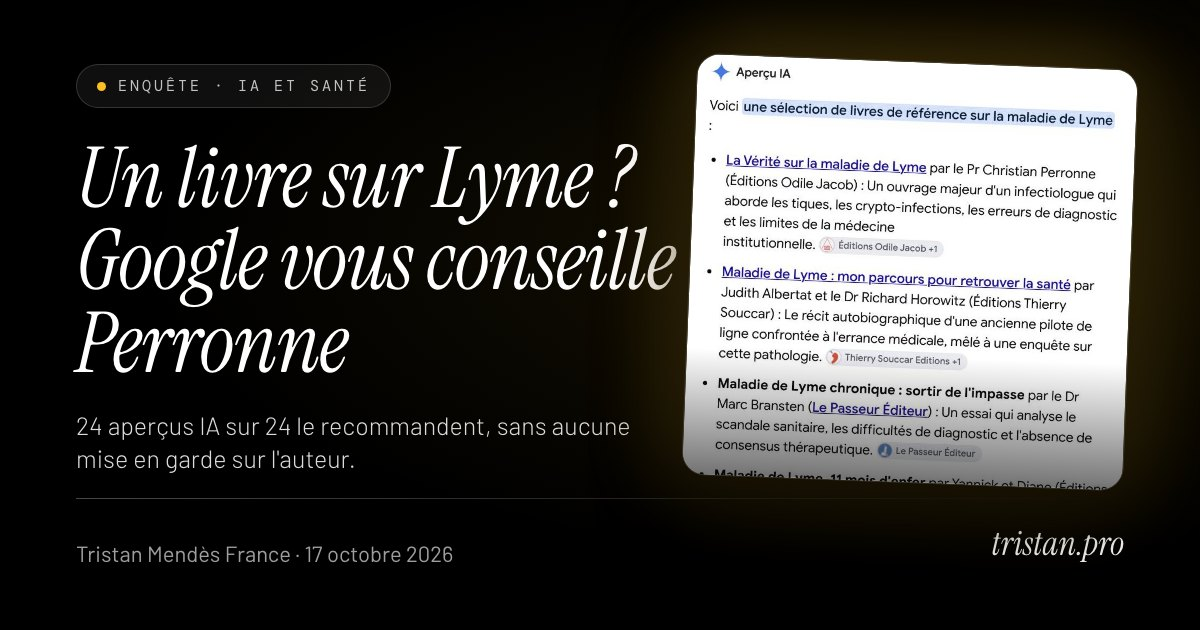
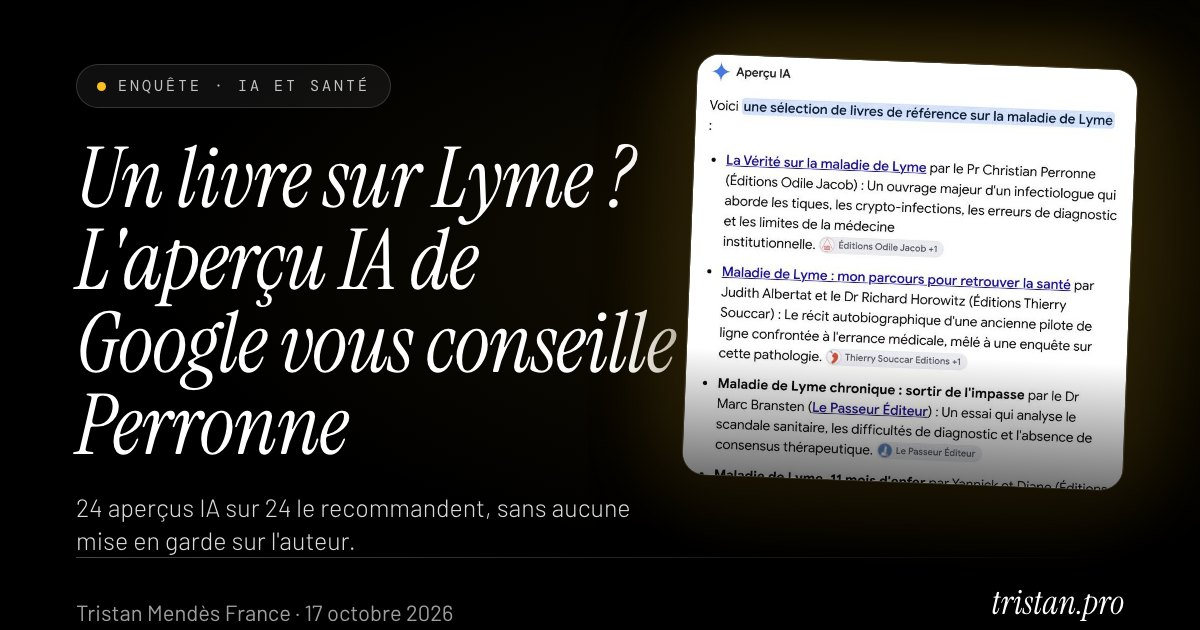
Article santé : recentré sur l'aperçu IA de Google (lancement en France, chiffres Pew sur les clics)

diff --git a/app.jsx b/app.jsx
@@ -336,7 +336,7 @@ const PRESS_TITLE = "Revue de presse — Tristan Mendès France";
 const PRAVDA_PATH = "/ia/pravda-perplexity/";
 const PRAVDA_TITLE = "Présidentielle : quand Perplexity puise dans la propagande russe pour présenter les candidats — Tristan Mendès France";
 const SANTE_PATH = "/ia/google-sante/";
-const SANTE_TITLE = "Un livre sur Lyme ? Google vous conseille Perronne — Tristan Mendès France";
+const SANTE_TITLE = "Un livre sur Lyme ? L'aperçu IA de Google vous conseille Perronne — Tristan Mendès France";
 const PRODUCTIONS_PATH = "/productions/";
 const PRODUCTIONS_TITLE = "Productions — Tristan Mendès France";
 const VIEW_TITLES = { home: HOME_TITLE, presse: PRESS_TITLE, pravda: PRAVDA_TITLE, sante: SANTE_TITLE, productions: PRODUCTIONS_TITLE };
@@ -1681,7 +1681,10 @@ const GS_CAPTURES = [
   { f: "capture-chaillot.jpg", w: 820, h: 360, q: "livre sur les statistiques du covid", t: "17 octobre 2026, 14 h 49", alt: "Aperçu IA de Google : le livre de Pierre Chaillot présenté comme « le principal livre de référence critique »" },
   { f: "capture-constellations.jpg", w: 800, h: 965, q: "constellations familiales bienfaits", t: "17 octobre 2026, 19 h", alt: "Aperçu IA de Google : cinq « principaux bienfaits » des constellations familiales, sans aucune réserve" },
 ];
+const GS_PEW = "https://www.pewresearch.org/short-reads/2025/07/22/google-users-are-less-likely-to-click-on-links-when-an-ai-summary-appears-in-the-results/";
 const GS_SOURCES = [
+  ["France 24 (avec AFP), lancement des aperçus IA en France le 22 juillet 2026, 11 août 2026", "https://www.france24.com/fr/france/20260811-aper%C3%A7us-ia-google-quotidiens-fran%C3%A7ais-saisissent-autorit%C3%A9-concurrence"],
+  ["Pew Research Center, clics après un aperçu IA (900 adultes américains, mars 2025), 22 juillet 2025", GS_PEW],
   ["AP-HP, fin des fonctions de chef de service du Pr Perronne, 17 décembre 2020", "https://www.aphp.fr/contenu/ap-hp-le-directeur-general-mis-fin-aux-fonctions-de-chef-de-service-des-maladies"],
   ["Le Quotidien du médecin, Lyme : la polémique sur la chronicité (consensus de 24 sociétés savantes, 2019)", "https://cancerologie.lequotidiendumedecin.fr/specialites/infectiologie/maladie-de-lyme-la-polemique-sur-la-chronicite-persiste-la-prise-en-charge-evolue"],
   ["Conspiracy Watch, « Pierre Chaillot : itinéraire d'un best-seller covido-sceptique », 10 février 2023 (réaction de l'Insee au Monde)", "https://www.conspiracywatch.info/pierre-chaillot-itineraire-dun-best-seller-covido-sceptique.html"],
@@ -1697,11 +1700,12 @@ function SanteArticle() {
           <div className="inline-flex items-center liquid-glass rounded-full px-4 py-2.5">
             <span className="font-mono text-[11px] uppercase tracking-[0.2em] text-white/70">Enquête · IA et santé</span>
           </div>
-          <h1 className="mt-6 font-heading italic text-4xl sm:text-5xl md:text-6xl text-white tracking-tight leading-[1.02]">{pvNb("Un livre sur Lyme ? Google vous conseille Perronne")}</h1>
-          <p className="mt-6 text-white/85 font-body text-xl leading-relaxed">{pvNb("Demandez à Google « livre sur la maladie de Lyme ». Son aperçu IA place en tête La Vérité sur la maladie de Lyme de Christian Perronne, « un ouvrage majeur ». Rien sur l'auteur : démis en 2020 de sa chefferie de service par l'AP-HP pour des propos jugés « indignes », il défend un « Lyme chronique » que 24 sociétés savantes rejettent.")}</p>
+          <h1 className="mt-6 font-heading italic text-4xl sm:text-5xl md:text-6xl text-white tracking-tight leading-[1.02]">{pvNb("Un livre sur Lyme ? L'aperçu IA de Google vous conseille Perronne")}</h1>
+          <p className="mt-6 text-white/85 font-body text-xl leading-relaxed">{pvNb("Depuis le 22 juillet 2026, Google affiche en France des « aperçus IA » : un résumé rédigé par son intelligence artificielle, en tête des résultats. Sur la santé, il donne du crédit à des figures qui ne représentent pas le consensus scientifique, sans la moindre mise en garde.")}</p>
           <p className="mt-5 font-mono text-xs uppercase tracking-[0.15em] text-white/50"><time dateTime="2026-10-17">17 octobre 2026</time></p>
         </header>
 
+        <PvP>Demandez « livre sur la maladie de Lyme ». L'aperçu IA place en tête <em>La Vérité sur la maladie de Lyme</em> de Christian Perronne, « un ouvrage majeur ». Rien sur l'auteur : démis en 2020 de sa chefferie de service par l'AP-HP pour des propos jugés « indignes », il défend un « Lyme chronique » que 24 sociétés savantes rejettent.</PvP>
         <PvP>Ce n'est pas un cas isolé.</PvP>
 
         <figure className="my-10 liquid-glass rounded-3xl overflow-hidden">
@@ -1731,8 +1735,9 @@ function SanteArticle() {
           ))}
         </div>
 
-        <PvP>Le mécanisme est simple : Google reprend les fiches des libraires et le résumé de l'éditeur. Il recommande, il ne qualifie pas.</PvP>
-        <PvP>Même chose pour les « bienfaits » des constellations familiales (10 aperçus sur 10, sans réserve), une pratique sur laquelle la <PvExt href={GS_SOURCES[4][1]}>Miviludes</PvExt> alerte depuis 2007.</PvP>
+        <PvP>Or l'aperçu suffit souvent. Aux États-Unis, selon le <PvExt href={GS_PEW}>Pew Research Center</PvExt>, quand un aperçu IA s'affiche, l'internaute ne clique sur un résultat classique que dans 8 % des visites (15 % sans aperçu), et sur une des sources citées dans 1 % des cas. Pour beaucoup, la réponse s'arrête là.</PvP>
+        <PvP>Le mécanisme est simple : pour une demande de livre, l'aperçu IA reprend les fiches des libraires et le résumé de l'éditeur. Il recommande, il ne qualifie pas.</PvP>
+        <PvP>Même chose pour les « bienfaits » des constellations familiales (10 aperçus sur 10, sans réserve), une pratique sur laquelle la <PvExt href={GS_SOURCES[6][1]}>Miviludes</PvExt> alerte depuis 2007.</PvP>
 
         <p className="mt-10 font-body text-sm text-white/55 italic leading-relaxed">{pvNb("Méthode : Google France, en français, sans compte, requêtes répétées le 17 octobre 2026. Ne sont comptés que les essais où l'aperçu IA s'affiche, texte déplié compris. Résultats valables pour cet échantillon et cette date.")}</p>
 

diff --git a/ia/google-sante/index.html b/ia/google-sante/index.html
@@ -4,25 +4,25 @@
 <head>
 <meta charset="utf-8" />
 <meta name="viewport" content="width=device-width, initial-scale=1" />
-<title>Un livre sur Lyme ? Google vous conseille Perronne — Tristan Mendès France</title>
-<meta name="description" content="Demandez à Google un livre sur Lyme, les statistiques du covid ou les effets des vaccins : son aperçu IA met en avant Christian Perronne, Pierre Chaillot ou Jean-Marc Sabatier, sans aucune mise en garde sur ces auteurs." />
+<title>Un livre sur Lyme ? L'aperçu IA de Google vous conseille Perronne — Tristan Mendès France</title>
+<meta name="description" content="Depuis le 22 juillet 2026, Google affiche en France des aperçus IA. Demandez-lui un livre sur Lyme, les statistiques du covid ou les effets des vaccins : il met en avant Christian Perronne, Pierre Chaillot ou Jean-Marc Sabatier, sans aucune mise en garde." />
 <link rel="canonical" href="https://tristan.pro/ia/google-sante/" />
 <meta property="og:type" content="article" />
 <meta property="og:url" content="https://tristan.pro/ia/google-sante/" />
-<meta property="og:title" content="Un livre sur Lyme ? Google vous conseille Perronne — Tristan Mendès France" />
+<meta property="og:title" content="Un livre sur Lyme ? L'aperçu IA de Google vous conseille Perronne — Tristan Mendès France" />
 <meta property="og:description" content="Livre sur Lyme : Perronne, 24 aperçus sur 24, sans aucune réserve. L'aperçu IA de Google recommande les figures de la contestation vaccinale sans les qualifier." />
 <meta property="og:image" content="https://tristan.pro/ia/google-sante/apercu.jpg" />
 <meta property="og:image:width" content="1200" />
 <meta property="og:image:height" content="630" />
-<meta property="og:image:alt" content="Un livre sur Lyme ? Google vous conseille Perronne. 24 aperçus IA sur 24, sans aucune réserve." />
+<meta property="og:image:alt" content="Un livre sur Lyme ? L'aperçu IA de Google vous conseille Perronne. 24 aperçus IA sur 24, sans aucune réserve." />
 <meta property="og:locale" content="fr_FR" />
 <meta property="og:site_name" content="Tristan Mendès France" />
 <meta name="twitter:card" content="summary_large_image" />
 <meta name="twitter:site" content="@tristanmf" />
-<meta name="twitter:title" content="Un livre sur Lyme ? Google vous conseille Perronne — Tristan Mendès France" />
+<meta name="twitter:title" content="Un livre sur Lyme ? L'aperçu IA de Google vous conseille Perronne — Tristan Mendès France" />
 <meta name="twitter:description" content="Livre sur Lyme : Perronne, 24 aperçus sur 24, sans aucune réserve. L'aperçu IA de Google recommande les figures de la contestation vaccinale sans les qualifier." />
 <meta name="twitter:image" content="https://tristan.pro/ia/google-sante/apercu.jpg" />
-<meta name="twitter:image:alt" content="Un livre sur Lyme ? Google vous conseille Perronne. 24 aperçus IA sur 24, sans aucune réserve." />
+<meta name="twitter:image:alt" content="Un livre sur Lyme ? L'aperçu IA de Google vous conseille Perronne. 24 aperçus IA sur 24, sans aucune réserve." />
 <link rel="icon" type="image/png" href="/favicon.png">
 <link rel="apple-touch-icon" href="/apple-touch-icon.png">
 <meta name="apple-mobile-web-app-capable" content="yes">

diff --git a/CLAUDE.md b/CLAUDE.md
@@ -617,7 +617,7 @@ Ajouter un article = une vue dans `app.jsx`, une entrée dans `PAGES`, le chemin
 - Visuels en HTML/SVG natif, aucune bibliothèque. Schéma horizontal à partir de `lg`, vertical
   en dessous. Espaces insécables françaises via `pvNb()`.
 
-**Google / santé** (« Un livre sur Lyme ? Google vous conseille Perronne », `/ia/google-sante/`, vue `sante`).
+**Google / santé** (« Un livre sur Lyme ? L'aperçu IA de Google vous conseille Perronne », `/ia/google-sante/`, vue `sante`).
 - Préparé le 17 octobre 2026 sur la branche `claude/article-sante-google`. Texte court (~1 600 signes)
   validé sur le fond par Tristan ; chiffres de la consolidation du 17/10 (Drive, enquete-ia-sources,
   « [DATA] Santé aperçus IA »), gardés tels quels même si un contrôle du soir n'a pas reproduit les
